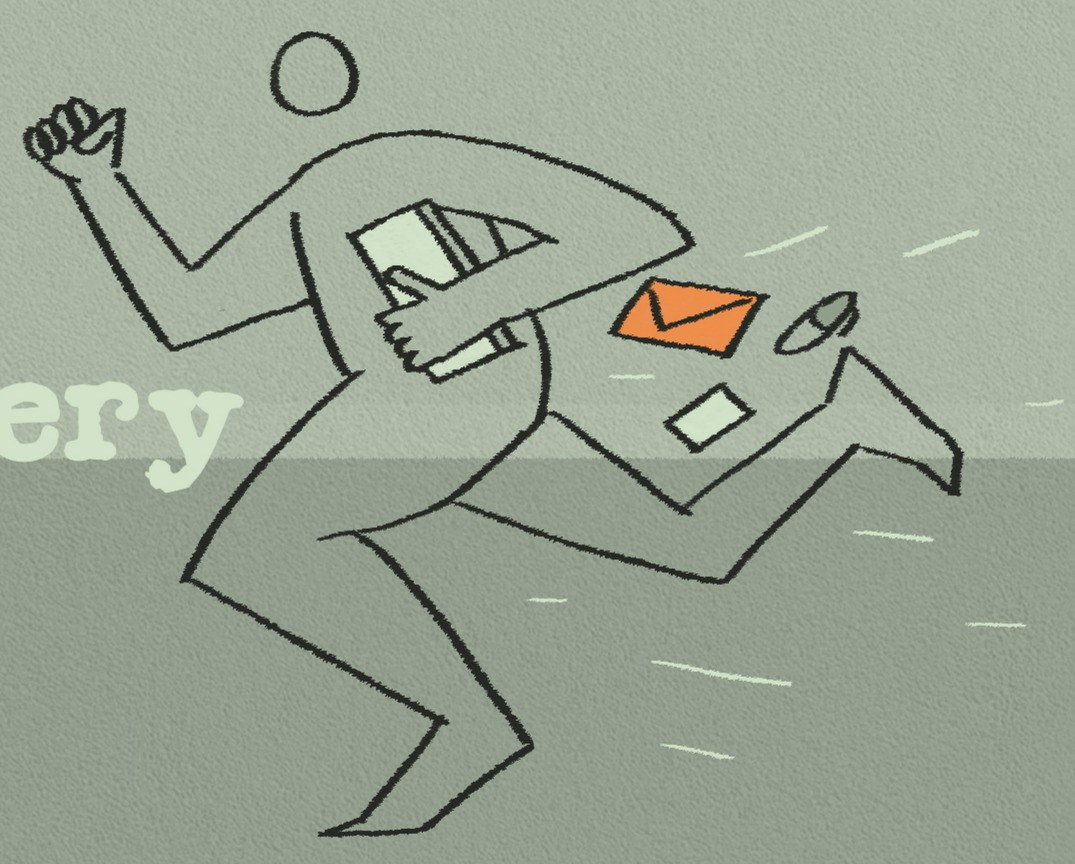
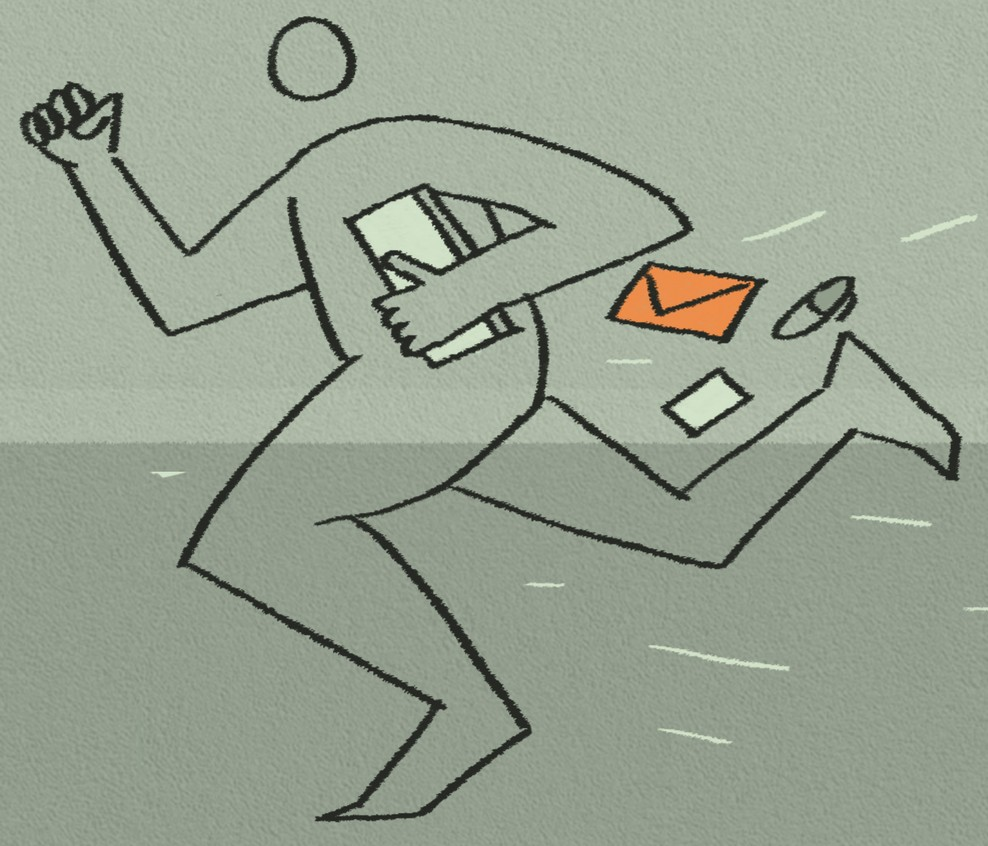
feat(assets): add crop script and chapter, project and illustration crops
Chalk title text is painted out of the runner crop with margin grain.

diff --git a/scripts/crop-pdf.py b/scripts/crop-pdf.py
@@ -1,0 +1,111 @@
+"""Crop artwork for the site out of the rendered PDF pages (TD-001).
+
+Usage:
+    pdftoppm -r 72 -png reference/portfolio-pdf/aveen-iranmanesh.pdf reference/portfolio-pdf/pages/page
+    python3 scripts/crop-pdf.py            # writes every crop below
+    python3 scripts/crop-pdf.py social-    # only crops whose name starts with "social-"
+
+Boxes are (left, top, right, bottom) in a 1400-px-wide page space, so they can be
+read straight off a 1400-px preview. Output is saved at the PDF's native 1920-px
+scale, whatever resolution the renders were made at.
+"""
+
+import sys
+from pathlib import Path
+
+from PIL import Image
+
+ROOT = Path(__file__).resolve().parent.parent
+PAGES = ROOT / "reference/portfolio-pdf/pages"
+OUT = ROOT / "src/assets/pdf"
+SPACE = 1400  # width of the coordinate space used below
+NATIVE = 1920  # width of the images embedded in the PDF
+
+Box = tuple[int, int, int, int]
+
+# Chalk title text that overlaps a character is painted out with paper grain
+# taken from the page's empty margin (same rows), so the grain stays continuous.
+ERASE: dict[str, Box] = {
+    "character-runner": (90, 330, 700, 432),
+}
+
+CROPS: dict[str, tuple[int, Box]] = {
+    # name: (page, box)
+    "character-runner": (5, (520, 88, 1240, 705)),
+    "character-sketcher": (2, (688, 40, 962, 336)),
+    "character-social": (7, (60, 70, 845, 672)),
+    "character-illustrator": (17, (60, 20, 1262, 730)),
+    "stationery-iranweblife-set": (6, (470, 10, 1385, 785)),
+    "social-iranweblife-posts": (8, (140, 15, 1258, 788)),
+    "social-iranweblife-stories": (9, (25, 78, 1375, 698)),
+    "social-parshava": (10, (365, 15, 1352, 788)),
+    "social-tanserlock": (11, (365, 15, 1352, 788)),
+    "social-foreveriran": (12, (365, 15, 1352, 788)),
+    "identity-daghigh-mockups": (14, (112, 120, 562, 630)),
+    "identity-daghigh-sketch": (14, (565, 175, 905, 592)),
+    "identity-daghigh-idea": (14, (415, 632, 905, 740)),
+    "identity-daghigh-logos": (14, (935, 132, 1355, 655)),
+    "identity-norbu-mockups": (15, (95, 118, 525, 586)),
+    "identity-norbu-sketch": (15, (527, 175, 880, 592)),
+    "identity-norbu-idea": (15, (415, 655, 905, 760)),
+    "identity-norbu-logos": (15, (935, 132, 1355, 655)),
+    "identity-faradid-mockups": (16, (132, 140, 525, 612)),
+    "identity-faradid-sketch": (16, (527, 175, 880, 592)),
+    "identity-faradid-idea": (16, (415, 655, 905, 760)),
+    "identity-faradid-logos": (16, (935, 132, 1355, 655)),
+    "illustration-tshirts": (18, (35, 145, 1365, 625)),
+    "illustration-hoodies": (19, (55, 145, 865, 702)),
+    "illustration-tote-yellow": (19, (955, 25, 1325, 665)),
+    "illustration-postcards": (20, (85, 148, 1314, 716)),
+    "illustration-bags-and-shirt": (21, (0, 112, 1400, 722)),
+    "illustration-night-hoodies": (22, (0, 112, 1400, 722)),
+    "illustration-tote-pool": (23, (0, 112, 500, 722)),
+    "illustration-cushions": (24, (110, 128, 655, 762)),
+    "illustration-mugs": (24, (800, 118, 1292, 702)),
+    "illustration-helmet": (25, (128, 138, 622, 612)),
+    "illustration-clock": (25, (940, 12, 1252, 322)),
+    "illustration-slippers": (25, (850, 385, 1298, 712)),
+}
+
+
+def erase_chalk(im: Image.Image, box: Box) -> None:
+    """Replace light chalk pixels inside `box` with grain from the left margin."""
+    from PIL import ImageFilter
+
+    x0, y0, x1, y1 = box
+    region = im.crop(box).convert("L")
+    margin = im.crop((8, y0, 8 + 160, y1))
+    bg = [sorted(margin.convert("L").crop((0, y, 160, y + 1)).getdata())[80] for y in range(y1 - y0)]
+    mask = Image.new("L", region.size, 0)
+    mp, rp = mask.load(), region.load()
+    for y in range(region.size[1]):
+        for x in range(region.size[0]):
+            if rp[x, y] > bg[y] + 14:
+                mp[x, y] = 255
+    mask = mask.filter(ImageFilter.MaxFilter(7))
+    fill = Image.new("RGB", region.size)
+    for x in range(0, region.size[0], 160):
+        fill.paste(margin, (x, 0))
+    im.paste(fill, (x0, y0), mask)
+
+
+def main(prefix: str = "") -> None:
+    for name, (page, box) in CROPS.items():
+        if not name.startswith(prefix):
+            continue
+        src = PAGES / f"page-{page:02d}.png"
+        im = Image.open(src).convert("RGB")
+        s = im.size[0] / SPACE
+        if name in ERASE:
+            erase_chalk(im, tuple(round(v * s) for v in ERASE[name]))
+        crop = im.crop(tuple(round(v * s) for v in box))
+        k = NATIVE / im.size[0]
+        if k < 1:
+            crop = crop.resize((round(crop.size[0] * k), round(crop.size[1] * k)), Image.LANCZOS)
+        dest = OUT / f"{name}.jpg"
+        crop.save(dest, quality=90, optimize=True, progressive=True)
+        print(f"{dest.relative_to(ROOT)}  {crop.size[0]}x{crop.size[1]}  (page {page})")
+
+
+if __name__ == "__main__":
+    main(sys.argv[1] if len(sys.argv) > 1 else "")

diff --git a/reference/README.md b/reference/README.md
@@ -16,20 +16,19 @@ Source material. Never imported by the site, never shipped.
 
 ## Making a crop
 
-Crops used by the site live in `src/assets/pdf/`. Coordinates below are in a
-2000-px-wide page space and are scaled to the render size:
+Crops used by the site live in `src/assets/pdf/`. Most are produced by
+`scripts/crop-pdf.py`, which lists every crop with its page and box (in a 1400-px
+page space) and writes it at the PDF's native scale. It can also paint chalk title
+text out of a crop (`ERASE`), using paper grain from the page margin.
 
-```python
-from PIL import Image
-im = Image.open("reference/portfolio-pdf/pages/page-14.png").convert("RGB")
-s = im.size[0] / 2000
-box = (1340, 193, 1928, 531)                     # left, top, right, bottom
-im.crop(tuple(int(v * s) for v in box)).save("src/assets/pdf/daghigh-logo-light.jpg", quality=92)
+```bash
+python3 scripts/crop-pdf.py              # all crops
+python3 scripts/crop-pdf.py identity-    # only names starting with "identity-"
 ```
 
-Existing crops and their page: `cover` (1), `character-detective` (4),
-`character-runner` (5), `iranweblife-stationery` (6), `character-dancer` (13),
-`daghigh-logo-light`/`-dark` (14), `illustration-whisper-label` (23),
+To add a crop, add a line to `CROPS` and run the script. Crops made by hand before
+the script existed: `cover` (p.1), `character-detective` (4), `character-dancer` (13),
+`daghigh-logo-light`/`-dark` (14, styleguide only), `illustration-whisper-label` (23),
 `contact-handshake` (26).
 
 The PDF itself is **not in git** (35 MB, and it contains the owner's portrait and
